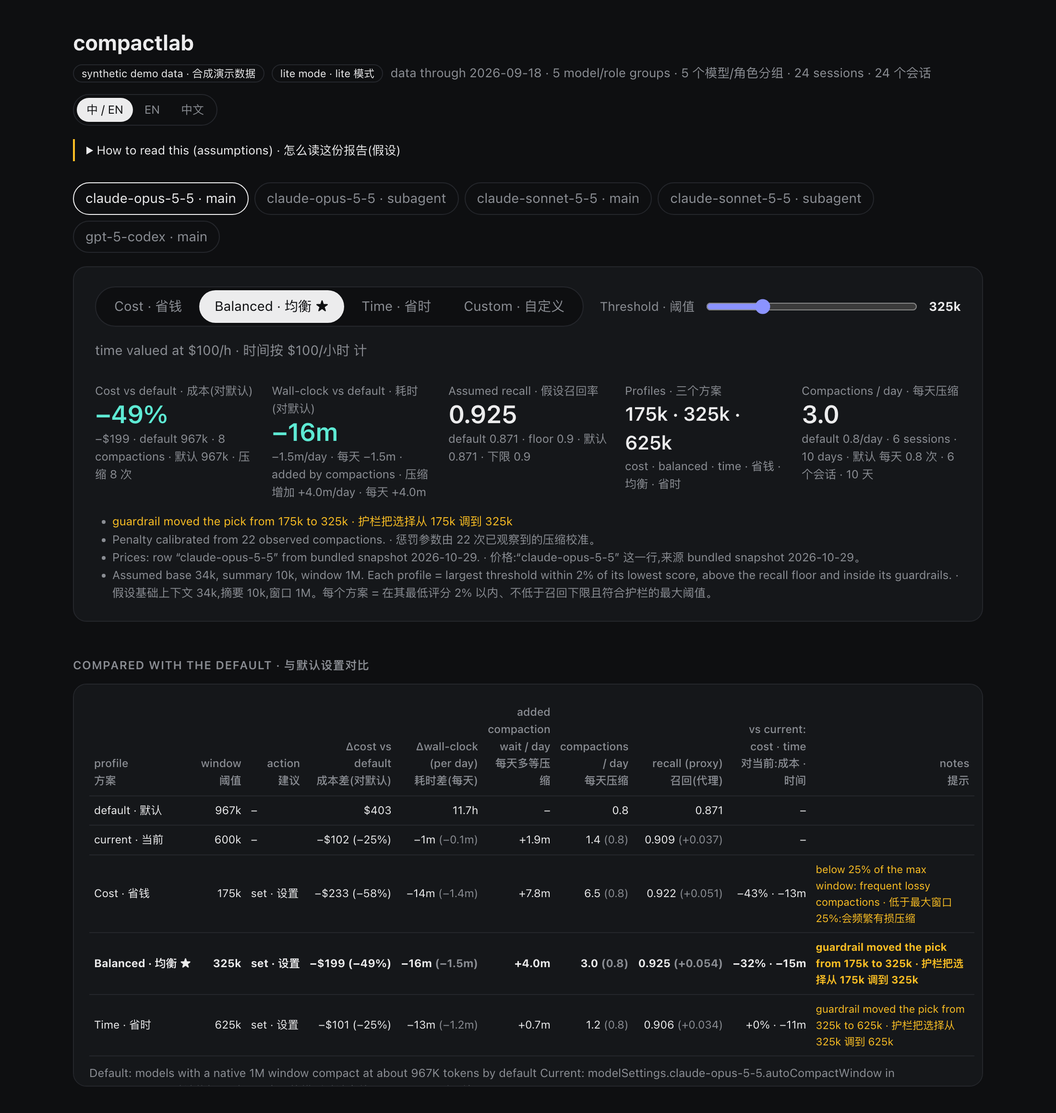
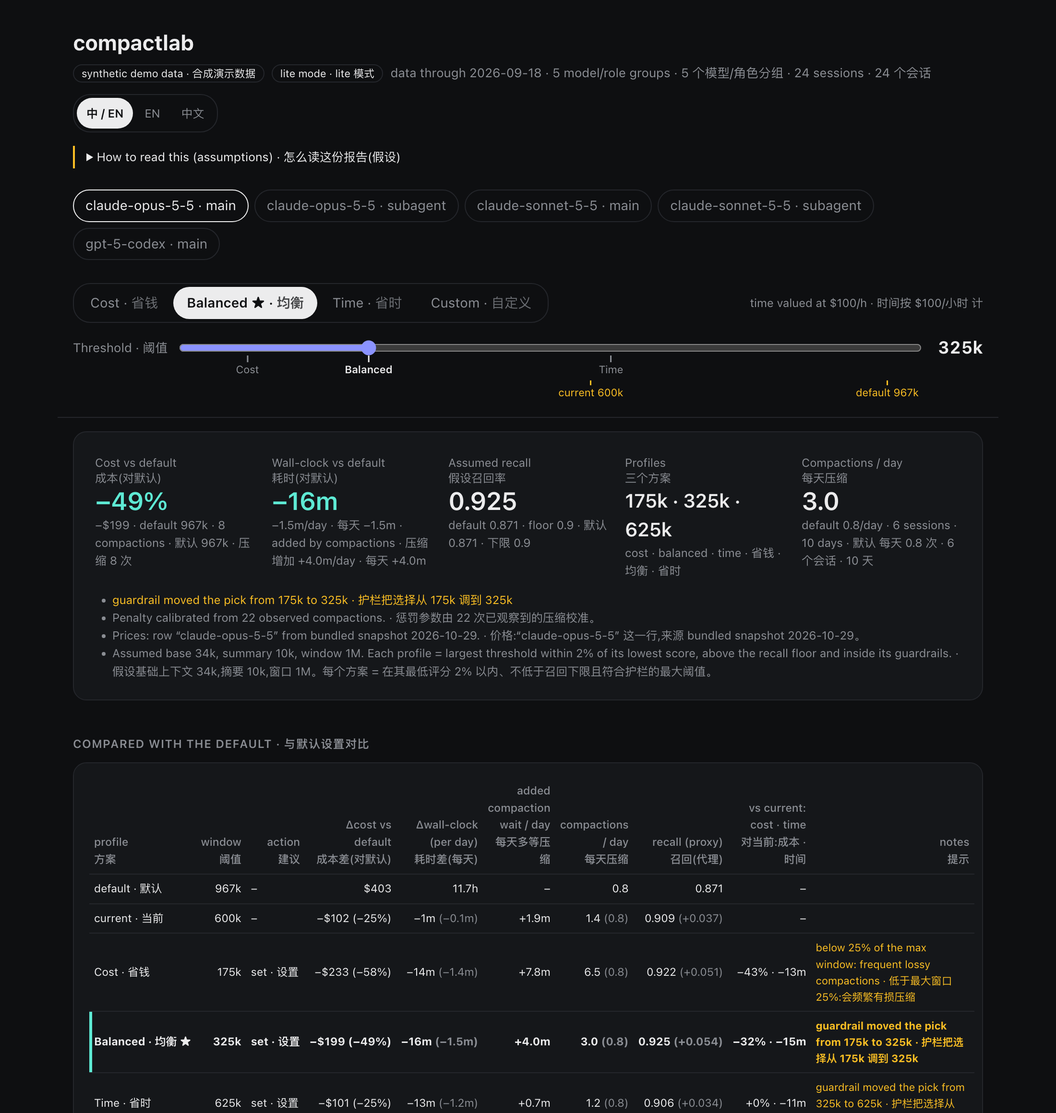
Report: continuous slider drag, sticky control bar, slider marks, chart tooltips, a11y polish
- Control bar (profile buttons, slider, marks) is built once per group/language and updated in place;
  input events no longer replace the <input type=range>, so dragging and keyboard arrows work
- Sticky bar; slider marks for cost/balanced/time, default and current (click to snap, labels avoid
  overlaps and viewport edges); hover/tap tooltips on Pareto, cost and time charts (click selects)
- Focus and scroll kept across re-renders (copy panel, language switch); session chart redraws
  without rebuilding its picker
- Copy: secure-context clipboard, execCommand fallback, then select-the-text fallback; visible feedback
- 44px targets on narrow/touch screens, focus-visible rings, prefers-reduced-motion, two-line
  bilingual profile buttons on phones, comparison table no longer clipped
- tests/test_report_dom.py: headless Chrome checks the slider node survives input events, profile
  and mark clicks, focus, tooltip and sticky bar; no horizontal scroll at 375/768/1440
- docs/assets/report.png refreshed

diff --git a/src/compactlab/report/template.html b/src/compactlab/report/template.html
@@ -10,15 +10,28 @@ h1{font-size:22px;font-weight:650;letter-spacing:-.02em;margin:0}h2{font-size:12
 .mut{color:var(--mut)}.badge{display:inline-block;font-size:11px;border:1px solid var(--bd);border-radius:999px;padding:0 8px;margin-right:4px;color:var(--fg)}code{font:12px ui-monospace,SFMono-Regular,Menlo,monospace}.sub{margin:4px 0 0;font-size:13px}
 details.note{margin:14px 0 0;font-size:12.5px;color:var(--mut);border-left:2px solid var(--warn);padding:2px 0 2px 12px}details.note summary{cursor:pointer;color:var(--fg)}
 .pills{display:flex;flex-wrap:wrap;gap:6px;margin:22px 0 0}
-.pills button,.seg button{font:inherit;color:var(--mut);background:transparent;border:1px solid var(--bd);border-radius:999px;padding:5px 12px;cursor:pointer;transition:.15s}
+.pills button,.seg button{font:inherit;color:var(--mut);background:transparent;border:1px solid var(--bd);border-radius:999px;padding:5px 12px;cursor:pointer;transition:color .15s,background .15s,border-color .15s;min-height:32px}
 .pills button:hover,.seg button:hover{color:var(--fg)}.pills button[aria-selected=true]{color:var(--fg);border-color:var(--fg)}
 .panel{background:var(--card);border:1px solid var(--bd);border-radius:14px;padding:20px 22px;margin-top:14px}
-.gearrow{display:flex;flex-wrap:wrap;align-items:center;gap:16px;justify-content:space-between}
-.seg{display:inline-flex;gap:2px;background:var(--bg);border:1px solid var(--bd);border-radius:999px;padding:3px}.seg button{border:0;border-radius:999px;padding:6px 16px}
-.seg button[aria-pressed=true]{background:var(--fg);color:var(--bg)}
-.slider{display:flex;align-items:center;gap:10px;font-size:13px;color:var(--mut)}input[type=range]{width:220px;accent-color:var(--acc)}
+.gearrow{display:flex;flex-wrap:wrap;align-items:center;gap:12px 20px;justify-content:space-between}
+.seg{display:inline-flex;flex-wrap:wrap;gap:2px;background:var(--bg);border:1px solid var(--bd);border-radius:18px;padding:3px;max-width:100%}.seg button{border:0;border-radius:999px;padding:6px 14px;white-space:nowrap}
+.seg button[aria-pressed=true]{background:var(--fg);color:var(--bg);font-weight:600}
+.bar{position:sticky;top:0;z-index:5;margin:14px -16px 0;padding:10px 16px 6px;background:color-mix(in srgb,var(--bg) 90%,transparent);-webkit-backdrop-filter:blur(10px);backdrop-filter:blur(10px);border-bottom:1px solid var(--bd)}
+.slider{display:grid;grid-template-columns:auto 1fr auto;align-items:start;gap:4px 12px;font-size:13px;color:var(--mut);flex:1 1 100%;min-width:0}.slider label{white-space:nowrap;line-height:28px}
+.track{position:relative;min-width:0;padding-bottom:46px}.tval{line-height:28px}
+input[type=range]{width:100%;height:28px;margin:0;accent-color:var(--acc);cursor:pointer;touch-action:pan-y}
+.tval{font-size:18px;font-weight:650;color:var(--fg);min-width:52px;text-align:right;font-variant-numeric:tabular-nums}
+.mk{position:absolute;transform:translateX(-50%);font:inherit;font-size:11px;line-height:1.2;white-space:nowrap;background:transparent;border:0;padding:4px 2px 2px;color:var(--mut);cursor:pointer;min-height:18px}
+.mk::before{content:"";position:absolute;left:50%;top:-4px;width:1.5px;height:7px;background:currentColor;transform:translateX(-50%)}
+.mk.r1{top:26px}.mk.r2{top:50px;color:var(--warn)}.mk.r2::before{height:5px;top:-2px}.mk.l1{margin-top:14px}.mk.l2{margin-top:28px}.mk.er{transform:translateX(calc(-100% + 4px))}.mk.er::before{left:auto;right:3px}.mk.el{transform:translateX(-4px)}.mk.el::before{left:3px}
+#ctl .kpis{margin-top:4px}#fCmp{max-height:none}.gearrow .vot{margin-left:auto}.mk.on{color:var(--fg);font-weight:600}.mk:hover{color:var(--fg)}
+.vot{font-size:12px}
+#tip{position:fixed;z-index:20;pointer-events:none;background:var(--card);color:var(--fg);border:1px solid var(--bd);border-radius:10px;padding:8px 10px;font-size:12px;line-height:1.5;box-shadow:0 6px 24px #0002;min-width:150px}
+#tip b{font-size:13px}#tip .r{display:flex;justify-content:space-between;gap:14px}#tip .r span:first-child{color:var(--mut)}
+:focus-visible{outline:2px solid var(--acc);outline-offset:2px}
+.hov{cursor:crosshair}
 .kpis{display:grid;grid-template-columns:repeat(auto-fit,minmax(150px,1fr));gap:18px;margin-top:22px}
-.kpis .k{font-size:12px;color:var(--mut)}.kpis .v{font-size:26px;font-weight:600;letter-spacing:-.02em;line-height:1.2}.kpis .d{font-size:12px;color:var(--mut)}
+.kpis .k{font-size:12px;color:var(--mut);line-height:1.35;min-height:2.7em}.kpis .v{font-size:26px;font-weight:600;letter-spacing:-.02em;line-height:1.2}.kpis .d{font-size:12px;color:var(--mut)}
 .good{color:var(--acc2)}.bad{color:var(--warn)}
 .grid2{display:grid;grid-template-columns:1fr 1fr;gap:14px}@media(max-width:760px){.grid2{grid-template-columns:1fr}}
 .fig{background:var(--card);border:1px solid var(--bd);border-radius:14px;padding:14px 16px}.fig h3{font-size:13px;font-weight:600;margin:0 0 2px}.fig p{margin:0 0 8px;font-size:12px;color:var(--mut)}
@@ -33,13 +46,21 @@ ul.n{margin:12px 0 0;padding-left:18px;font-size:12px;color:var(--mut)}
 .ctlrow{display:flex;gap:10px;flex-wrap:wrap;align-items:center;margin-top:14px}
 pre.snip{background:var(--bg);border:1px solid var(--bd);border-radius:10px;padding:12px;overflow:auto;font:12px/1.5 ui-monospace,SFMono-Regular,Menlo,monospace;white-space:pre;max-height:420px;margin:10px 0 0}
 .copyrow{display:flex;gap:8px;flex-wrap:wrap;align-items:center}.btn{font:inherit;font-size:12px;border:1px solid var(--fg);background:var(--fg);color:var(--bg);border-radius:8px;padding:5px 12px;cursor:pointer}
-tr.sel td{font-weight:650}td.act{text-align:left}#fCmp th{white-space:normal;vertical-align:bottom}#fCmp td:last-child{white-space:normal;min-width:170px;font-size:11px}.kpis .v.sm{font-size:20px;line-height:1.5}#fCmp th,#fCmp td{padding:6px 5px;font-size:11.5px}
+tr.sel td{font-weight:650}tr.sel td:first-child{box-shadow:inset 3px 0 0 var(--acc2)}td.act{text-align:left}#fCmp th{white-space:normal;vertical-align:bottom}#fCmp td:last-child{white-space:normal;min-width:170px;font-size:11px}.kpis .v.sm{font-size:20px;line-height:1.5}#fCmp th,#fCmp td{padding:6px 5px;font-size:11.5px}
+@media (max-width:768px),(pointer:coarse){.seg button,.pills button,.btn{min-height:44px}.mk{min-height:24px}input[type=range]{height:44px}.mk.r1{top:38px}.mk.r2{top:64px}.track{padding-bottom:62px}}
+.gl .z{color:inherit;opacity:.75}
+@media (max-width:520px){.bar{padding-top:8px}.gearrow{gap:8px}#gears{display:grid;grid-template-columns:repeat(4,1fr);width:100%;border-radius:14px}
+ #gears button{padding:4px 6px;white-space:normal;line-height:1.25;font-size:12.5px}#gears .sep{display:none}#gears .z{display:block;font-size:11px}
+ .slider{grid-template-columns:1fr auto;width:100%}.slider label{grid-row:1}.tval{grid-row:1;grid-column:2}.track{grid-column:1/-1}.panel{padding:16px}}
+@media (prefers-reduced-motion:reduce){*{transition:none!important;animation:none!important;scroll-behavior:auto!important}}
 </style></head><body><main>
 <div class="top"><div><h1>compactlab</h1><p class="sub mut" id="meta"></p></div>
 <div class="seg sm" role="group" aria-label="Language" id="langs"></div></div>
 <details class="note"><summary id="howto"></summary><p id="caveat"></p></details>
 <div class="pills" id="tabs" role="tablist"></div>
-<section class="panel" id="ctl"></section>
+<div class="bar" id="bar"></div>
+<section class="panel" id="ctl"><div id="banner"></div><div class="kpis" id="kpis"></div><ul class="n" id="notes"></ul></section>
+<div id="tip" role="tooltip" hidden></div>
 <h2 id="hCmp"></h2>
 <div class="fig scroll" id="fCmp"></div>
 <h2 id="hCopy"></h2>
@@ -138,6 +159,7 @@ const PROF=['cost','balanced','time'];
 try{const l=localStorage.getItem('compactlab.lang');if(l)S.lang=l}catch(e){}
 function t(k,...a){const v=I[k];if(!v)return k;const f=x=>typeof x==='function'?x(...a):x;
   return S.lang==='en'?f(v[0]):S.lang==='zh'?f(v[1]):f(v[0])+' · '+f(v[1])}
+function t2(k,suf=''){const v=I[k];return S.lang==='en'?v[0]+suf:S.lang==='zh'?v[1]+suf:v[0]+suf+'<span class="sep"> · </span><span class="z">'+v[1]+'</span>'}
 function tp(k,...a){const v=I[k],f=x=>typeof x==='function'?x(...a):x;
   return S.lang==='en'?f(v[0]):S.lang==='zh'?f(v[1]):f(v[0])+'<br><span class="zh">'+f(v[1])+'</span>'}
 function el(n,a,x){const e=document.createElementNS(NS,n);for(const k in a)e.setAttribute(k,a[k]);if(x!=null)e.textContent=x;return e}
@@ -150,7 +172,12 @@ function cmp(a,r){const days=Math.max(G().days||1,1);return {dc:a.combined_cost-
 function action(g,thr,vot){if(g.no_action_needed)return 'aNo';const d=g.default,i=g.grid.indexOf(thr),p=pt(g,i);
   return (thr>=d.threshold||p.combined_cost+p.time_s/3600*vot>=d.combined_cost+d.time_s/3600*vot)?'aKeep':'aSet'}
 function paretoIdx(sc,rc){return sc.map((_,i)=>i).filter(i=>!sc.some((_,j)=>sc[j]<=sc[i]&&rc[j]>=rc[i]&&(sc[j]<sc[i]||rc[j]>rc[i])))}
-function setGear(k){S.gear=k;if(k!=='custom'){S.T=G().profiles[k].threshold;S.vot=G().profiles[k].value_of_time}render()}
+function setGear(k){S.gear=k;if(k!=='custom'){S.T=G().profiles[k].threshold;S.vot=G().profiles[k].value_of_time}update()}
+function setT(T){S.gear=PROF.find(k=>G().profiles[k].threshold===T&&k===S.gear)||'custom';S.T=T;update()}
+function nearest(g,v){let b=0;g.grid.forEach((x,i)=>{if(Math.abs(x-v)<Math.abs(g.grid[b]-v))b=i});return b}
+// re-render a box without losing keyboard focus or scroll position
+function keep(fn){const a=document.activeElement,key=a&&a.dataset?Object.entries(a.dataset).map(([k,v])=>`[data-${k}="${v}"]`).join(''):'',y=scrollY;fn();
+  if(key){const n=document.querySelector(key);if(n&&n!==a)n.focus({preventScroll:true})}if(scrollY!==y)scrollTo(0,y)}
 const fm=s=>{const a=Math.abs(s)/60;return (s>=0?'+':'−')+(a>=10?Math.round(a):a.toFixed(1))+'m'};
 function flagText(f,p){const k='f_'+f;return I[k]?t(k,f==='guardrail_applied'?fk(p.unconstrained_threshold):p.wait_cap_min_per_day,fk(p.threshold)):f}
 function frame(W,H,m){const svg=el('svg',{viewBox:`0 0 ${W} ${H}`});return {svg,x0:m.l,x1:W-m.r,y0:H-m.b,y1:m.t}}
@@ -167,31 +194,68 @@ function statics(){
   $('#langs').innerHTML=[['both','中 / EN'],['en','EN'],['zh','中文']].map(([k,l])=>`<button data-l="${k}" aria-pressed="${S.lang===k}">${l}</button>`).join('');
   document.querySelectorAll('#langs button').forEach(b=>b.onclick=()=>{S.lang=b.dataset.l;try{localStorage.setItem('compactlab.lang',S.lang)}catch(e){}statics();render();renderS()});
   document.querySelectorAll('#tabs button').forEach((b,i)=>b.textContent=D.groups[i].model+' · '+D.groups[i].role)}
-function controls(){const g=G(),i=g.grid.indexOf(S.T),r=g.recommendation,p=pt(g,i),d=g.default,c=cmp(p,d),P=g.profiles;
-  const gears=[...PROF,'custom'];
-  $('#ctl').innerHTML=`<div class="gearrow"><div class="seg" role="group" aria-label="${t('gear')}">${gears.map(k=>`<button data-g="${k}" aria-pressed="${S.gear===k}">${t(k)}${k===g.profile?' ★':''}</button>`).join('')}</div>
-  <div class="slider"><span>${t('threshold')}</span><input type="range" min="0" max="${g.grid.length-1}" value="${i}" id="rng" aria-label="${t('threshold')}"><b style="color:var(--fg)">${fk(S.T)}</b></div></div>
-  <div class="ctlrow mut">${t('vot',S.vot)}</div>
-  ${g.no_action_needed?'<div class="banner">'+tp('noAction')+'</div>':''}
-  <div class="kpis">
-   <div><div class="k">${t('kCost')}</div><div class="v ${c.dc<=0?'good':'bad'}">${pc(c.dcp)}</div><div class="d">${fds(c.dc)} · ${t('dDefault',fk(d.threshold),d.compactions)}</div></div>
-   <div><div class="k">${t('kTime')}</div><div class="v ${c.dt<=0?'good':'bad'}">${fh(c.dt)}</div><div class="d">${t('perDay',fm(c.dtd))} · ${t('cAdded')} ${t('perDay',fm(Math.max(c.addd,0)))}</div></div>
-   <div><div class="k">${t('kRecall')}</div><div class="v ${p.recall>=r.recall_floor?'':'bad'}">${p.recall.toFixed(3)}</div><div class="d">${t('dRecall',d.recall.toFixed(3),r.recall_floor)}</div></div>
-   <div><div class="k">${t('kProf')}</div><div class="v sm">${PROF.map(k=>fk(P[k].threshold)).join(' · ')}</div><div class="d">${t('dProf')}</div></div>
-   <div><div class="k">${t('kComp')}</div><div class="v">${c.cpd.toFixed(1)}</div><div class="d">${t('dComp',(d.compactions/Math.max(g.days,1)).toFixed(1),g.n_sessions,Math.round(g.days))}</div></div></div>
-  <ul class="n">${notes(g).map(n=>'<li>'+n+'</li>').join('')}</ul>`;
-  document.querySelectorAll('#ctl .gearrow .seg button').forEach(b=>b.onclick=()=>setGear(b.dataset.g));
-  $('#rng').oninput=e=>{S.gear='custom';S.T=g.grid[+e.target.value];render()}}
+// The control bar (profile buttons, slider, marks) is built once per group/language and then only updated in
+// place, so dragging the slider never replaces the <input type=range> under the pointer.
+function buildBar(){const g=G(),n=g.grid.length,lo=g.grid[0],hi=g.grid[n-1];
+  const pos=v=>Math.min(Math.max((v-lo)/((hi-lo)||1),0),1),at=v=>`left:calc(8px + (100% - 16px) * ${pos(v).toFixed(4)})`;
+  const byT={};PROF.forEach(k=>{(byT[g.profiles[k].threshold]=byT[g.profiles[k].threshold]||[]).push(k)});
+  const marks=Object.entries(byT).map(([T,ks])=>`<button class="mk r1" data-mk="${T}" data-g="${ks[0]}" style="${at(+T)}" aria-label="${t('threshold')} ${fk(+T)}: ${ks.map(k=>t(k)).join(', ')}">${ks.map(k=>S.lang==='zh'?I[k][1]:I[k][0]).join(' · ')}</button>`);
+  const refs=[[g.default.threshold,'rDefault']].concat(g.current?[[g.current.threshold,'rCurrent']]:[]);
+  refs.forEach(([T,k])=>marks.push(`<button class="mk r2" data-mk="${T}" data-ref="${k}" style="${at(T)}" aria-label="${t(k)} ${fk(T)}">${S.lang==='zh'?I[k][1]:I[k][0]} ${fk(T)}</button>`));
+  $('#bar').innerHTML=`<div class="gearrow"><div class="seg" id="gears" role="group" aria-label="${t('gear')}">${[...PROF,'custom'].map(k=>`<button data-gear="${k}" aria-pressed="false" class="gl">${t2(k,k===g.profile?'&nbsp;★':'')}</button>`).join('')}</div>
+  <div class="slider"><label for="rng">${t('threshold')}</label><div class="track"><input type="range" min="0" max="${n-1}" step="1" id="rng"><div id="marks">${marks.join('')}</div></div><span class="tval" id="tval" aria-live="polite"></span></div></div>`;
+  $('#gears').insertAdjacentHTML('afterend','<span class="vot mut" id="vot"></span>');
+  document.querySelectorAll('#gears button').forEach(b=>b.onclick=()=>setGear(b.dataset.gear));
+  document.querySelectorAll('#marks .mk').forEach(b=>b.onclick=()=>{if(b.dataset.g)setGear(b.dataset.g);else setT(g.grid[nearest(g,+b.dataset.mk)])});
+  $('#rng').addEventListener('input',e=>{S.gear='custom';S.T=g.grid[+e.target.value];update()});
+  requestAnimationFrame(spreadMarks)}
+// push mark labels down a line when they would overlap a neighbour in the same row
+function spreadMarks(){const tb=document.querySelector('.track');if(!tb)return;const T=tb.getBoundingClientRect();
+  document.querySelectorAll('#marks .mk').forEach(m=>{m.classList.remove('er','el');const r=m.getBoundingClientRect();if(r.right>T.right+4)m.classList.add('er');else if(r.left<T.left-4)m.classList.add('el')});
+  for(const row of ['r1','r2']){const ms=[...document.querySelectorAll('#marks .mk.'+row)];ms.forEach(m=>m.classList.remove('l1','l2'));
+  ms.sort((a,b)=>a.getBoundingClientRect().left-b.getBoundingClientRect().left);const ends=[-1e9,-1e9,-1e9];
+  for(const m of ms){const r=m.getBoundingClientRect();let lv=ends.findIndex(e=>r.left>e+4);if(lv<0)lv=2;if(lv)m.classList.add('l'+lv);ends[lv]=r.right}}
+  const tr=document.querySelector('.track');if(tr){const extra=[...document.querySelectorAll('#marks .mk')].reduce((a,m)=>Math.max(a,m.classList.contains('l2')?28:m.classList.contains('l1')?14:0),0);tr.style.paddingBottom='';tr.style.paddingBottom=(parseFloat(getComputedStyle(tr).paddingBottom)+extra)+'px'}}
+addEventListener('resize',()=>{clearTimeout(spreadMarks.tm);spreadMarks.tm=setTimeout(spreadMarks,100)});
+function controls(){const g=G(),i=g.grid.indexOf(S.T),r=g.recommendation,p=pt(g,i),d=g.default,c=cmp(p,d),P=g.profiles,rng=$('#rng');
+  if(+rng.value!==i)rng.value=i;rng.setAttribute('aria-valuetext',fk(S.T));$('#tval').textContent=fk(S.T);
+  document.querySelectorAll('#gears button').forEach(b=>b.setAttribute('aria-pressed',b.dataset.gear===S.gear));
+  document.querySelectorAll('#marks .mk').forEach(b=>b.classList.toggle('on',+b.dataset.mk===S.T));
+  $('#vot').textContent=t('vot',S.vot);
+  $('#banner').innerHTML=g.no_action_needed?'<div class="banner" style="margin:0 0 6px">'+tp('noAction')+'</div>':'';
+  $('#kpis').innerHTML=`
+   <div><div class="k">${tp('kCost')}</div><div class="v ${c.dc<=0?'good':'bad'}">${pc(c.dcp)}</div><div class="d">${fds(c.dc)} · ${t('dDefault',fk(d.threshold),d.compactions)}</div></div>
+   <div><div class="k">${tp('kTime')}</div><div class="v ${c.dt<=0?'good':'bad'}">${fh(c.dt)}</div><div class="d">${t('perDay',fm(c.dtd))} · ${t('cAdded')} ${t('perDay',fm(Math.max(c.addd,0)))}</div></div>
+   <div><div class="k">${tp('kRecall')}</div><div class="v ${p.recall>=r.recall_floor?'':'bad'}">${p.recall.toFixed(3)}</div><div class="d">${t('dRecall',d.recall.toFixed(3),r.recall_floor)}</div></div>
+   <div><div class="k">${tp('kProf')}</div><div class="v sm">${PROF.map(k=>fk(P[k].threshold)).join(' · ')}</div><div class="d">${t('dProf')}</div></div>
+   <div><div class="k">${tp('kComp')}</div><div class="v">${c.cpd.toFixed(1)}</div><div class="d">${t('dComp',(d.compactions/Math.max(g.days,1)).toFixed(1),g.n_sessions,Math.round(g.days))}</div></div>`;
+  $('#notes').innerHTML=notes(g).map(n=>'<li>'+n+'</li>').join('')}
 function notes(g){const n=[],pp=g.penalty_params,P=g.profiles[S.gear];
   if(P)for(const f of P.flags)n.push('<span class="bad">'+esc(flagText(f,P))+'</span>');
   if(S.T===g.grid[0])n.push(t('nEdge'));
   n.push(pp.source==='prior'?t('nPrior',pp.n_observed):t('nObs',pp.n_observed));
   n.push(esc(t('nPrice',g.price_key,g.price_source)));
   n.push(t('nAssume',fk(g.base_tokens),fk(g.summary_tokens),fk(g.max_window)));return n}
+// ---------- hover / tap tooltips on charts ----------
+function tipRow(k,v){return `<div class="r"><span>${k}</span><span>${v}</span></div>`}
+function tipHTML(g,i){const p=pt(g,i),c=cmp(p,g.default);return `<b>${fk(p.threshold)}</b>`+tipRow(t('lCost'),fd(p.combined_cost)+' ('+pc(c.dcp)+')')+
+  tipRow(t('cDt'),fh(c.dt)+' ('+fm(c.dtd)+')')+tipRow(t('kComp'),c.cpd.toFixed(1))+tipRow(t('cRec'),p.recall.toFixed(3))}
+function showTip(html,x,y){const tp_=$('#tip');tp_.innerHTML=html;tp_.hidden=false;const w=tp_.offsetWidth,h=tp_.offsetHeight;
+  tp_.style.left=Math.max(8,Math.min(x+14,innerWidth-w-8))+'px';tp_.style.top=Math.max(8,(y-h-12<8?y+16:y-h-12))+'px'}
+function hideTip(){$('#tip').hidden=true}
+// idxAt(svgX, svgY) -> grid index or -1. Hover shows the tooltip; click/tap selects that threshold.
+function hover(f,idxAt){const g=G(),r=el('rect',{x:f.x0,y:f.y1,width:f.x1-f.x0,height:f.y0-f.y1,fill:'transparent',class:'hov'});
+  const guide=el('line',{y1:f.y1,y2:f.y0,stroke:'var(--mut)','stroke-width':.8,'stroke-dasharray':'2 2',visibility:'hidden','pointer-events':'none'});
+  f.svg.append(guide,r);const loc=e=>{const m=f.svg.getScreenCTM();if(!m)return -1;const q=new DOMPoint(e.clientX,e.clientY).matrixTransform(m.inverse());return idxAt(q.x,q.y)};
+  const move=e=>{const i=loc(e);if(i<0){hideTip();return}showTip(tipHTML(g,i),e.clientX,e.clientY);const gx=f.gx?f.gx(i):null;if(gx!=null){guide.setAttribute('x1',gx);guide.setAttribute('x2',gx);guide.setAttribute('visibility','visible')}};
+  r.addEventListener('pointermove',move);r.addEventListener('pointerdown',move);
+  r.addEventListener('pointerleave',()=>{hideTip();guide.setAttribute('visibility','hidden')});
+  r.addEventListener('click',e=>{const i=loc(e);if(i>=0)setT(g.grid[i])})}
+function byX(f,X,xs){f.gx=i=>X(xs[i]);return x=>{if(x<f.x0-4||x>f.x1+4)return -1;let b=0;xs.forEach((v,i)=>{if(Math.abs(X(v)-x)<Math.abs(X(xs[b])-x))b=i});return b}}
 function comparison(){const g=G(),d=g.default,box=$('#fCmp'),cur=g.current;
   const rows=[[t('rDefault'),d,'',null]];
   if(cur)rows.push([t('rCurrent'),cur,'',null]);
-  for(const k of PROF){const P=g.profiles[k];rows.push([t(k)+(k===g.profile?' ★':''),pt(g,g.grid.indexOf(P.threshold)),action(g,P.threshold,P.value_of_time),P])}
+  for(const k of PROF){const P=g.profiles[k];rows.push([t(k)+(k===g.profile?'&nbsp;★':''),pt(g,g.grid.indexOf(P.threshold)),action(g,P.threshold,P.value_of_time),P])}
   if(S.gear==='custom')rows.push([t('rSel'),pt(g,g.grid.indexOf(S.T)),action(g,S.T,S.vot),null]);
   const cols=['cTier','cWin','cAct','cDc','cDt','cWait','cComp','cRec'].concat(cur?['cCur']:[]).concat(['cFlags']);
   const head=cols.map(k=>'<th>'+tp(k)+'</th>').join('');
@@ -219,6 +283,7 @@ function pareto(){const g=G(),box=$('#fPareto'),sc=SC(g);box.innerHTML='<h3>'+t(
   const si=g.grid.indexOf(S.T);f.svg.append(el('circle',{cx:X(xs[si]),cy:Y(ys[si]),r:8,fill:'var(--acc2)',opacity:.9}));f.svg.append(el('text',{x:X(xs[si])+11,y:Y(ys[si])-9,style:'fill:var(--fg);font-weight:600'},fk(S.T)));
   f.svg.append(el('rect',{x:X(dx)-4,y:Y(g.default.recall)-4,width:8,height:8,fill:'var(--warn)'}));f.svg.append(el('text',{x:X(dx)-8,y:Y(g.default.recall)+16,'text-anchor':'end',style:'fill:var(--warn)'},t('rDefault')+' '+fk(g.default.threshold)));
   f.svg.append(el('text',{x:f.x1,y:f.y1+8,'text-anchor':'end'},'x: '+t('lScore')+' · '+t('vot',S.vot)));
+  hover(f,(x,y)=>{let b=-1,bd=24*24;xs.forEach((v,i)=>{const d=(X(v)-x)**2+(Y(ys[i])-y)**2;if(d<bd){bd=d;b=i}});return b});
   box.append(f.svg);box.insertAdjacentHTML('beforeend',leg([['var(--acc)',t('pOpt')],['var(--ghost)',t('pDom')],['var(--acc2)',t('pSelL')],['transparent','○ '+t('pOther')],['var(--warn)',t('pDef')]].concat(hy?[['var(--fg)',t('pDeep')]]:[])))}
 function deepOf(g){return D.deep&&D.deep.groups.find(x=>x.model===g.model&&x.role===g.role)}
 function deepPanel(){const g=G(),b=$('#fDeep'),hy=deepOf(g);if(!D.deep){b.innerHTML='<p>'+tp('dLite')+'</p>';return}
@@ -233,6 +298,7 @@ function costs(){const g=G(),box=$('#fCost'),sc=SC(g);box.innerHTML='<h3>'+t('co
   line(f,X,Y,xs,g.cost,'var(--ghost)',1.5);line(f,X,Y,xs,g.penalty,'var(--warn)',1.2,'3 3');line(f,X,Y,xs,sc,'var(--acc)',2.2);
   const dv=SCp(g,g.default);f.svg.append(el('line',{x1:f.x0,x2:f.x1,y1:Y(dv),y2:Y(dv),stroke:'var(--warn)','stroke-dasharray':'2 3','stroke-width':1}));
   const si=xs.indexOf(S.T);f.svg.append(el('line',{x1:X(S.T),x2:X(S.T),y1:f.y1,y2:f.y0,stroke:'var(--acc2)','stroke-width':1.5}));f.svg.append(el('circle',{cx:X(S.T),cy:Y(sc[si]),r:4,fill:'var(--acc2)'}));
+  hover(f,byX(f,X,xs));
   box.append(f.svg);box.insertAdjacentHTML('beforeend',leg([['var(--ghost)',t('lCost')],['var(--warn)',t('lPen')],['var(--acc)',t('lScore')+' ('+t('vot',S.vot)+')'],['var(--warn)',t('lDefault')+' '+fk(g.default.threshold)],['var(--band)',t('lRange'),1]]))}
 function timeChart(){const g=G(),d=g.default,box=$('#fTime'),tm=g.time_model,xs=g.grid;
   const saved=xs.map((_,i)=>d.time_turns_s-g.time_turns_s[i]),added=xs.map((_,i)=>(g.time_compact_s[i]+g.time_redisc_s[i])-(d.time_compact_s+d.time_redisc_s)),net=xs.map((_,i)=>g.time_s[i]-d.time_s);
@@ -244,6 +310,7 @@ function timeChart(){const g=G(),d=g.default,box=$('#fTime'),tm=g.time_model,xs=
   f.svg.append(el('line',{x1:f.x0,x2:f.x1,y1:Y(0),y2:Y(0),stroke:'var(--mut)','stroke-width':.8}));
   line(f,X,Y,xs,saved,'var(--acc2)',1.6);line(f,X,Y,xs,added,'var(--warn)',1.6);line(f,X,Y,xs,net,'var(--acc)',2.4);
   f.svg.append(el('line',{x1:X(S.T),x2:X(S.T),y1:f.y1,y2:f.y0,stroke:'var(--acc2)','stroke-dasharray':'4 3'}));
+  hover(f,byX(f,X,xs));
   box.append(f.svg);box.insertAdjacentHTML('beforeend',leg([['var(--acc2)',t('tSaved')],['var(--warn)',t('tAdded')],['var(--acc)',t('tNet')]])+'<p class="'+(tm.turn_source==='own'&&tm.compact_source==='own'?'mut':'bad')+'" style="margin:8px 0 0;font-size:12px">'+esc(t('tConf',conf(tm.turn_confidence),tm.n_turn_samples,conf(tm.compact_confidence),tm.n_compact_samples,t('src_'+(tm.turn_source||'prior')),t('src_'+(tm.compact_source||'prior'))))+'</p>')}
 function hist(){const g=G(),box=$('#fHist'),h=g.hist;box.innerHTML='<h3>'+t('hTitle')+'</h3><p>'+tp('hSub')+'</p>';
   const f=frame(460,300,{l:40,r:14,t:10,b:30}),n=h.turns.length,mx=Math.max(...h.turns,...h.share)*1.1||1,bw=(f.x1-f.x0)/n;
@@ -257,18 +324,20 @@ function hist(){const g=G(),box=$('#fHist'),h=g.hist;box.innerHTML='<h3>'+t('hTi
   box.append(f.svg);box.insertAdjacentHTML('beforeend',leg([['var(--ghost)',t('hTurns'),1],['var(--acc)',t('hRead')]]))}
 function simulate(sess,g,T){const out=[];let c=g.base_tokens,k=0;const pp=g.penalty_params;
   for(const x of sess.growth){c+=x;if(c>T){k++;const d=Math.max(c-g.base_tokens-g.summary_tokens,0);c=g.base_tokens+g.summary_tokens+Math.round(pp.rho*d+pp.fixed_tokens)}out.push(c)}return {out,k}}
-function sessPick(){const g=G(),box=$('#fSess'),ss=D.sessions.filter(s=>s.model===g.model&&s.role===g.role).sort((a,b)=>b.peak-a.peak).slice(0,30);
+function sessList(){const g=G();return D.sessions.filter(s=>s.model===g.model&&s.role===g.role).sort((a,b)=>b.peak-a.peak).slice(0,30)}
+function sessPick(){const box=$('#fSess'),ss=sessList();
   const cur=S.sid&&ss.find(s=>s.id===S.sid)?S.sid:(ss[0]||{}).id;S.sid=cur;
-  box.innerHTML=`<h3>${t('sTitle')}</h3><p>${tp('sSub',fk(S.T))}</p><select id="sp">${ss.map(s=>`<option value="${esc(s.id)}"${s.id===cur?' selected':''}>${esc(s.id.slice(0,24))} · ${fk(s.peak)} · ${s.turns}</option>`).join('')}</select>`;
-  const s=ss.find(x=>x.id===cur);if(!s)return;const sim=simulate(s,g,S.T),n=s.curve.length;
+  box.innerHTML=`<h3>${t('sTitle')}</h3><p id="sSub"></p><select id="sp" aria-label="${t('colSession')}">${ss.map(s=>`<option value="${esc(s.id)}"${s.id===cur?' selected':''}>${esc(s.id.slice(0,24))} · ${fk(s.peak)} · ${s.turns}</option>`).join('')}</select><div id="sChart"></div>`;
+  $('#sp').onchange=e=>{S.sid=e.target.value;sessChart()};sessChart()}
+function sessChart(){const g=G(),box=$('#sChart'),s=sessList().find(x=>x.id===S.sid);$('#sSub').innerHTML=tp('sSub',fk(S.T));box.innerHTML='';if(!s)return;
+  const sim=simulate(s,g,S.T),n=s.curve.length;
   const f=frame(460,260,{l:40,r:14,t:10,b:26}),hi=Math.max(...s.curve,...sim.out,S.T)*1.06;
   const X=i=>f.x0+i/((n-1)||1)*(f.x1-f.x0),Y=v=>f.y0-v/hi*(f.y0-f.y1);
   axes(f,X,Y,[0,Math.round((n-1)/2),n-1],ticks(0,hi,4),i=>Math.round(i/(n-1||1)*100)+'%',fk);
   f.svg.append(el('line',{x1:f.x0,x2:f.x1,y1:Y(S.T),y2:Y(S.T),stroke:'var(--acc2)','stroke-dasharray':'4 3','stroke-width':1}));
   f.svg.append(el('polyline',{points:s.curve.map((v,i)=>X(i)+','+Y(v)).join(' '),fill:'none',stroke:'var(--ghost)','stroke-width':1.8}));
   f.svg.append(el('polyline',{points:sim.out.map((v,i)=>X(i)+','+Y(v)).join(' '),fill:'none',stroke:'var(--acc)','stroke-width':1.6}));
-  box.append(f.svg);box.insertAdjacentHTML('beforeend',leg([['var(--ghost)',t('sAct',s.compactions)],['var(--acc)',t('sRep',sim.k)],['var(--acc2)',t('threshold')]]));
-  $('#sp').onchange=e=>{S.sid=e.target.value;sessPick()}}
+  box.append(f.svg);box.insertAdjacentHTML('beforeend',leg([['var(--ghost)',t('sAct',s.compactions)],['var(--acc)',t('sRep',sim.k)],['var(--acc2)',t('threshold')]]))}
 function copyPanel(){const b=$('#fCopy'),R=D.recommendations||[];
   const hs=[...new Set(R.map(r=>r.harness))];if(!hs.length){b.innerHTML='<p class="mut">–</p>';return}
   S.cp=S.cp||{harness:G().harness,scope:'global',profile:G().profile||'balanced',format:null};if(!hs.includes(S.cp.harness))S.cp.harness=hs[0];
@@ -278,15 +347,26 @@ function copyPanel(){const b=$('#fCopy'),R=D.recommendations||[];
   const snips=rows.filter(r=>!r.omitted),om=rows.filter(r=>r.omitted);
   const txt=snips.map(r=>r.text).join('\n');
   b.innerHTML='<p>'+tp('cpSub')+'</p><div class="copyrow">'+seg('harness',hs,'cpHarness')+seg('scope',['global','project','agent'],'cpScope')+seg('profile',PROF,'cpTier')+seg('format',fmts,'cpFormat')+'</div>'+
-    (snips.length?'<div class="copyrow" style="margin-top:10px"><button class="btn" id="cpBtn">'+t('cpCopy')+'</button><span class="mut" id="cpMsg"></span></div><pre class="snip" id="cpPre"></pre>':'')+
+    (snips.length?'<div class="copyrow" style="margin-top:10px"><button class="btn" id="cpBtn">'+t('cpCopy')+'</button><span class="mut" id="cpMsg" role="status" aria-live="polite"></span></div><pre class="snip" id="cpPre"></pre>':'')+
     (om.length?'<ul class="n">'+om.map(o=>'<li>'+(snips.length?'':t('cpNone')+' ')+esc(o.omitted)+'</li>').join('')+'</ul>':'');
-  if(snips.length){$('#cpPre').textContent=txt;$('#cpBtn').onclick=async()=>{let ok=false;try{await navigator.clipboard.writeText(txt);ok=true}catch(e){try{const ta=document.createElement('textarea');ta.value=txt;document.body.append(ta);ta.select();ok=document.execCommand('copy');ta.remove()}catch(e2){}}$('#cpMsg').textContent=ok?t('cpCopied'):t('cpFail')}}
-  b.querySelectorAll('.seg[data-k]').forEach(sg=>sg.querySelectorAll('button').forEach(bt=>bt.onclick=()=>{S.cp[sg.dataset.k]=bt.dataset.v;if(sg.dataset.k!=='format')S.cp.format=null;copyPanel()}))}
-function render(){controls();comparison();copyPanel();pareto();costs();timeChart();hist();sessPick();deepPanel()}
+  if(snips.length){$('#cpPre').textContent=txt;$('#cpBtn').onclick=()=>copyText(txt)}
+  b.querySelectorAll('.seg[data-k]').forEach(sg=>sg.querySelectorAll('button').forEach(bt=>bt.onclick=()=>{S.cp[sg.dataset.k]=bt.dataset.v;if(sg.dataset.k!=='format')S.cp.format=null;keep(copyPanel)}))}
+// navigator.clipboard needs a secure context (not file://); fall back to execCommand, then to selecting the text
+async function copyText(txt){let ok=false;
+  try{if(navigator.clipboard&&window.isSecureContext){await navigator.clipboard.writeText(txt);ok=true}}catch(e){}
+  if(!ok){try{const ta=document.createElement('textarea');ta.value=txt;ta.setAttribute('readonly','');ta.style.cssText='position:fixed;top:0;left:0;opacity:0';document.body.append(ta);ta.select();ok=document.execCommand('copy');ta.remove()}catch(e){}}
+  const msg=$('#cpMsg'),btn=$('#cpBtn');
+  if(ok){msg.textContent='✓ '+t('cpCopied');msg.className='good';btn.textContent=t('cpCopied')}
+  else{msg.textContent=t('cpFail');msg.className='bad';const r=document.createRange();r.selectNodeContents($('#cpPre'));const sel=getSelection();sel.removeAllRanges();sel.addRange(r)}
+  clearTimeout(copyText.tm);copyText.tm=setTimeout(()=>{if($('#cpBtn')){$('#cpBtn').textContent=t('cpCopy');$('#cpMsg').textContent=''}},2200)}
+// update(): everything that depends on the selected threshold/profile; render(): full rebuild (group or language change)
+function update(){controls();comparison();pareto();costs();timeChart();hist();sessChart();hideTip()}
+function render(){keep(()=>{buildBar();sessPick();update();copyPanel();deepPanel()})}
 function pick(i){S.gi=i;S.gear=G().profile||'balanced';S.T=G().profiles[S.gear].threshold;S.vot=G().profiles[S.gear].value_of_time;S.sid=null;document.querySelectorAll('#tabs button').forEach((b,j)=>b.setAttribute('aria-selected',j===i));render()}
 D.groups.forEach((g,i)=>{const b=document.createElement('button');b.setAttribute('role','tab');b.onclick=()=>pick(i);$('#tabs').append(b)});
 statics();
 if(D.groups.length)pick(0);else $('#ctl').textContent=t('none');
+addEventListener('scroll',hideTip,{passive:true});
 let sortK='peak',asc=false;
 function spark(c){if(c.length<2)return'';const w=110,h=20,mx=Math.max(...c);return `<svg viewBox="0 0 ${w} ${h}" width="${w}" height="${h}"><polyline fill="none" stroke="var(--acc)" stroke-width="1.1" points="${c.map((v,i)=>(i/(c.length-1)*w).toFixed(1)+','+(h-1-v/mx*(h-2)).toFixed(1)).join(' ')}"/></svg>`}
 function renderS(){const q=$('#q').value.toLowerCase();const rows=D.sessions.filter(s=>(s.id+s.model+s.role+s.harness).toLowerCase().includes(q));

diff --git a/tests/test_report_dom.py b/tests/test_report_dom.py
@@ -1,0 +1,114 @@
+"""Report interaction checks in a real (headless) browser: the slider must survive input events.
+
+Skipped when no Chrome/Chromium is installed. The check script is appended to a rendered report and writes its
+verdict to <body data-selftest>, which --dump-dom returns.
+"""
+
+import shutil
+import subprocess
+from pathlib import Path
+
+import pytest
+
+from compactlab.adapters import get_adapter
+from compactlab.pricing import PricingTable
+from compactlab.report.html import render_html
+from compactlab.sim.engine import analyze
+
+CANDIDATES = [
+    "/Applications/Google Chrome.app/Contents/MacOS/Google Chrome",
+    "/Applications/Chromium.app/Contents/MacOS/Chromium",
+    "google-chrome",
+    "chromium",
+    "chromium-browser",
+]
+
+CHECK = """
+<script>
+(function(){
+  const fail=[];const ok=(c,m)=>{if(!c)fail.push(m)};
+  try{
+    const n0=document.getElementById('rng');const g=D.groups[S.gi];const max=g.grid.length-1;
+    n0.focus();
+    for(const v of [0,3,Math.min(7,max),2,max,1]){
+      n0.value=v;n0.dispatchEvent(new Event('input',{bubbles:true}));
+      ok(document.getElementById('rng')===n0,'slider node replaced after input '+v);
+      ok(S.T===g.grid[v],'state not updated for '+v);
+      ok(document.getElementById('tval').textContent===fk(g.grid[v]),'value label stale at '+v);
+    }
+    ok(document.activeElement===n0,'slider lost focus');
+    ok(document.querySelector('[data-gear=custom]').getAttribute('aria-pressed')==='true','custom not active');
+    document.querySelector('[data-gear=time]').click();
+    ok(document.getElementById('rng')===n0,'slider node replaced after profile click');
+    ok(+n0.value===g.grid.indexOf(g.profiles.time.threshold),'slider not moved to the time profile');
+    ok(document.querySelector('[data-gear=time]').getAttribute('aria-pressed')==='true','time not active');
+    const def=document.querySelector('.mk[data-ref=rDefault]');ok(def,'default mark missing');
+    if(def){def.click();ok(S.gear==='custom'&&document.getElementById('rng')===n0,'default mark did not snap')}
+    const pm=document.querySelector('.mk[data-g=balanced]');ok(pm,'balanced mark missing');
+    if(pm){pm.click();ok(S.gear==='balanced','balanced mark did not select the profile')}
+    const b=document.querySelector('#fCopy .seg[data-k=profile] button[data-v=time]');
+    b.focus();b.click();
+    ok(document.activeElement&&document.activeElement.dataset.v==='time','copy panel lost focus');
+    // hover tooltip on the cost chart
+    const hv=document.querySelector('#fCost rect.hov');ok(hv,'no hover layer on the cost chart');
+    if(hv){const r=hv.getBoundingClientRect();
+      const at={bubbles:true,clientX:r.left+r.width/2,clientY:r.top+r.height/2};
+      hv.dispatchEvent(new PointerEvent('pointermove',at));
+      const tip=document.getElementById('tip');ok(!tip.hidden&&/k/.test(tip.textContent),'tooltip not shown')}
+    // the control bar stays visible while scrolling
+    scrollTo(0,document.body.scrollHeight);
+    ok(Math.abs(document.getElementById('bar').getBoundingClientRect().top)<1,'control bar is not sticky');
+  }catch(e){fail.push('error: '+e.message)}
+  document.body.dataset.selftest=fail.length?'fail: '+fail.join(' | '):'ok';
+})();
+</script>
+"""
+
+
+def _chrome() -> str | None:
+    for c in CANDIDATES:
+        p = shutil.which(c) or (c if Path(c).exists() else None)
+        if p:
+            return p
+    return None
+
+
+@pytest.mark.skipif(_chrome() is None, reason="no Chrome/Chromium for the DOM check")
+def test_slider_survives_input_events(tmp_path, claude_root, codex_root):
+    chrome = _chrome()
+    assert chrome
+    ss = list(get_adapter("claude-code")(claude_root).sessions()) + list(get_adapter("codex")(codex_root).sessions())
+    res = analyze(ss, PricingTable.load(offline=True), current={("claude-code", "claude-opus-5-5"): (600_000, "t")})
+    page = tmp_path / "r.html"
+    page.write_text(render_html(res).replace("</body>", CHECK + "</body>"))
+    out = subprocess.run(
+        [chrome, "--headless=new", "--disable-gpu", "--no-first-run", f"--user-data-dir={tmp_path / 'prof'}",
+         "--dump-dom", page.as_uri()],
+        capture_output=True, text=True, timeout=120,
+    )  # fmt: skip
+    assert 'data-selftest="ok"' in out.stdout, out.stdout.split("data-selftest=")[-1][:400]
+
+
+@pytest.mark.skipif(_chrome() is None, reason="no Chrome/Chromium for the DOM check")
+@pytest.mark.parametrize("width", [375, 768, 1440])
+def test_no_horizontal_scroll(tmp_path, claude_root, codex_root, width):
+    chrome = _chrome()
+    assert chrome
+    ss = list(get_adapter("claude-code")(claude_root).sessions()) + list(get_adapter("codex")(codex_root).sessions())
+    res = analyze(ss, PricingTable.load(offline=True), current={("claude-code", "claude-opus-5-5"): (600_000, "t")})
+    page = tmp_path / "r.html"
+    page.write_text(render_html(res))
+    host = tmp_path / "host.html"
+    host.write_text(
+        f'<!doctype html><body><iframe id="f" src="{page.as_uri()}" style="width:{width}px;height:900px;border:0">'
+        "</iframe><script>f.onload=()=>setTimeout(()=>{const d=f.contentDocument.documentElement;"
+        "document.body.dataset.sw=d.scrollWidth+'/'+d.clientWidth},300)</script>"
+    )
+    out = subprocess.run(
+        [chrome, "--headless=new", "--disable-gpu", "--no-first-run", "--allow-file-access-from-files",
+         f"--user-data-dir={tmp_path / 'prof'}", "--virtual-time-budget=3000", "--window-size=1500,1000",
+         "--dump-dom", host.as_uri()],
+        capture_output=True, text=True, timeout=120,
+    )  # fmt: skip
+    sw, cw = out.stdout.split('data-sw="')[1].split('"')[0].split("/")
+    assert int(sw) <= int(cw), f"horizontal scroll at {width}px: {sw} > {cw}"

diff --git a/CHANGELOG.md b/CHANGELOG.md
@@ -21,6 +21,12 @@ versioning: [SemVer](https://semver.org/).
 - Comparisons now include minutes/day, added compaction wait/day and compactions/day, against default and current.
 - Report: profile switch, three profiles side by side with flags, copy panel per profile. CLI/report state that
   costs are list-price estimates and recall is a lite-mode proxy.
+- Report UI: the threshold slider can be dragged continuously (the control bar is built once and updated in place
+  instead of being re-rendered on every input event); sticky control bar; slider marks for the three profiles,
+  the default and the current setting (click to snap); hover/tap tooltips on the charts (click selects); focus and
+  scroll kept across re-renders; copy button feedback and a file:// fallback; 44px touch targets on narrow or
+  touch screens; reduced-motion and focus-ring support; no horizontal scroll at 375 / 768 / 1440 px. Regression
+  tests run the report in headless Chrome (skipped when Chrome is absent).
 - Synthetic demo latencies are closer to real logs (compaction ≈ 90 s + 0.4 s per 1k tokens).
 
 ### Added

diff --git a/README.md b/README.md
@@ -99,9 +99,9 @@ gpt-5-codex · main · 6 sessions · 871 turns · 5 days · window 400k
   time                 350k keep default                    +$0 (+1%)        +4m (+1m)            3.3   0.929 (-0.000)
 ```
 
-The HTML report is one offline file, in Chinese and English (switchable). It has a profile switch (Cost / Balanced /
-Time / Custom threshold), the three profiles side by side against the default and your current setting, a Pareto
-frontier, cost and wall-clock curves, where your tokens sit by context size, and any session's real context curve
+The HTML report is one offline file, in Chinese and English (switchable). It has a sticky profile switch and threshold
+slider (with marks for each profile, the default and your current setting), the three profiles side by side
+against the default and your current setting, a Pareto frontier with hover/tap tooltips, cost and wall-clock curves, where your tokens sit by context size, and any session's real context curve
 next to the same session replayed at the chosen threshold.
 
 ## Copy the settings
